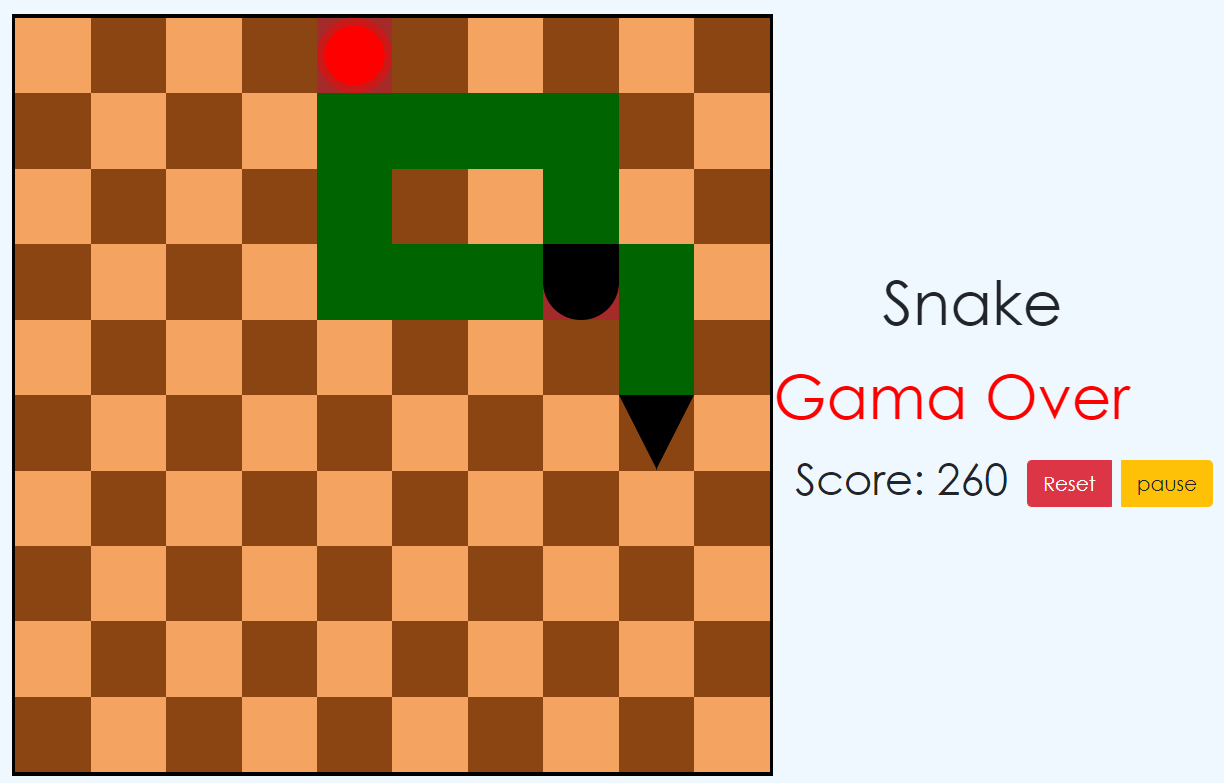
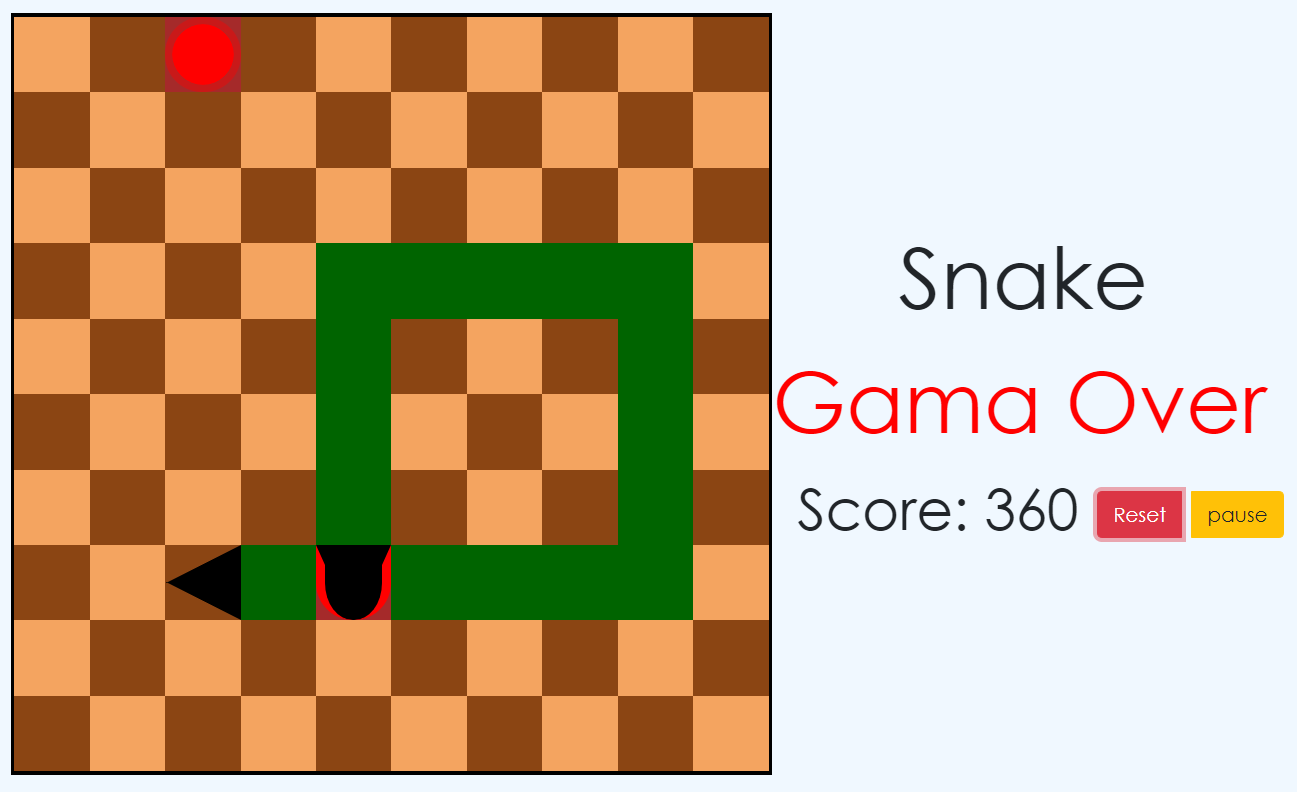
few changes

diff --git a/src/games/snake/Snake.css b/src/games/snake/Snake.css
@@ -62,25 +62,39 @@
     border-top-right-radius: 100%;
     border-bottom-right-radius: 100%;
     background: black;
-    border-right-style: outset;
+    border-top: 1vmin solid red;
+    border-bottom: 1vmin solid red;
+    border-right: 0vmin solid red;
 }
 
 .head-bottom {
+    border:  0.3em solid black;
     border-bottom-left-radius: 100%;
     border-bottom-right-radius: 100%;
     background: black;
+    border-left: 1vmin solid red;
+    border-right: 1vmin solid red;
+    border-bottom: 0vmin solid red;
 }
 
 .head-top {
+    border:  0.3em solid black;
     border-top-left-radius: 100%;
     border-top-right-radius: 100%;
     background: black;
+    border-left: 1vmin solid red;
+    border-right: 1vmin solid red;
+    border-top: 0vmin solid red;
 }
 
 .head-left {
+    border:  0.3em solid black;
     border-top-left-radius: 100%;
     border-bottom-left-radius: 100%;
     background: black;
+    border-top: 1vmin solid red;
+    border-bottom: 1vmin solid red;
+    border-left: 0vmin solid red;
 }
 
 .ground-light {
@@ -92,13 +106,12 @@
 }
 
 .page-title-snake {
-
-    font-size: 350%;
+    font-size: 9vmin;
 }
 
 .snake-score {
     margin-left: 5%;
-    font-size: 70%;
+    font-size: 6vmin;
 }
 
 .title-text {

diff --git a/src/games/snake/snake.jsx b/src/games/snake/snake.jsx
@@ -176,7 +176,7 @@ class Snake extends Component {
                                 <div className="col-1">
                                     <div className="btn-group" role="group" aria-label="Second group">
                                         <button  onClick={ () => this.reset() } className="btn btn-danger mr-2">Reset</button>
-                                        <button  onClick={ () => this.pause() } className="btn btn-warning">pause</button>
+                                        <button  onClick={ () => this.pause() } className="btn btn-warning">{(this.state.isGamePaused) ? "play" : "pause"}</button>
                                     </div>
                                 </div>
                             </div>
